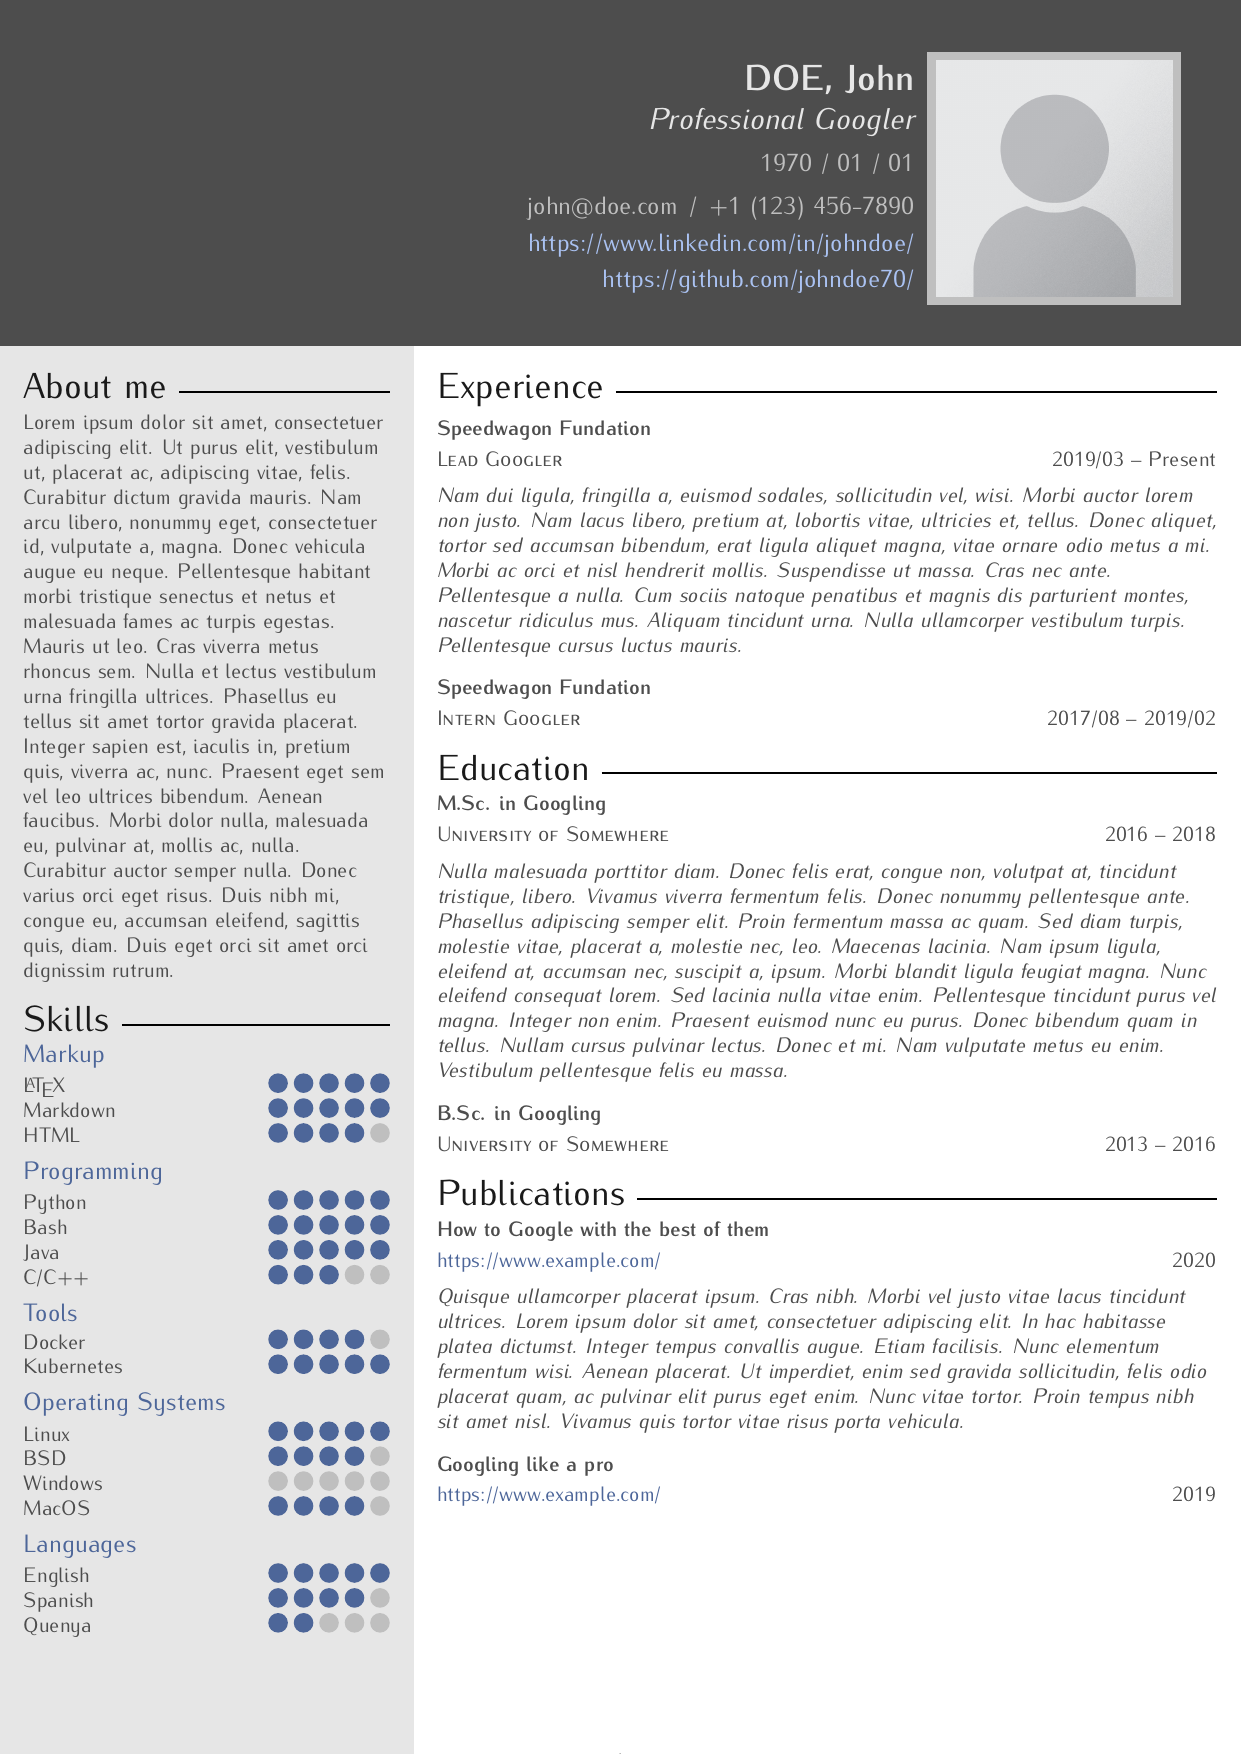
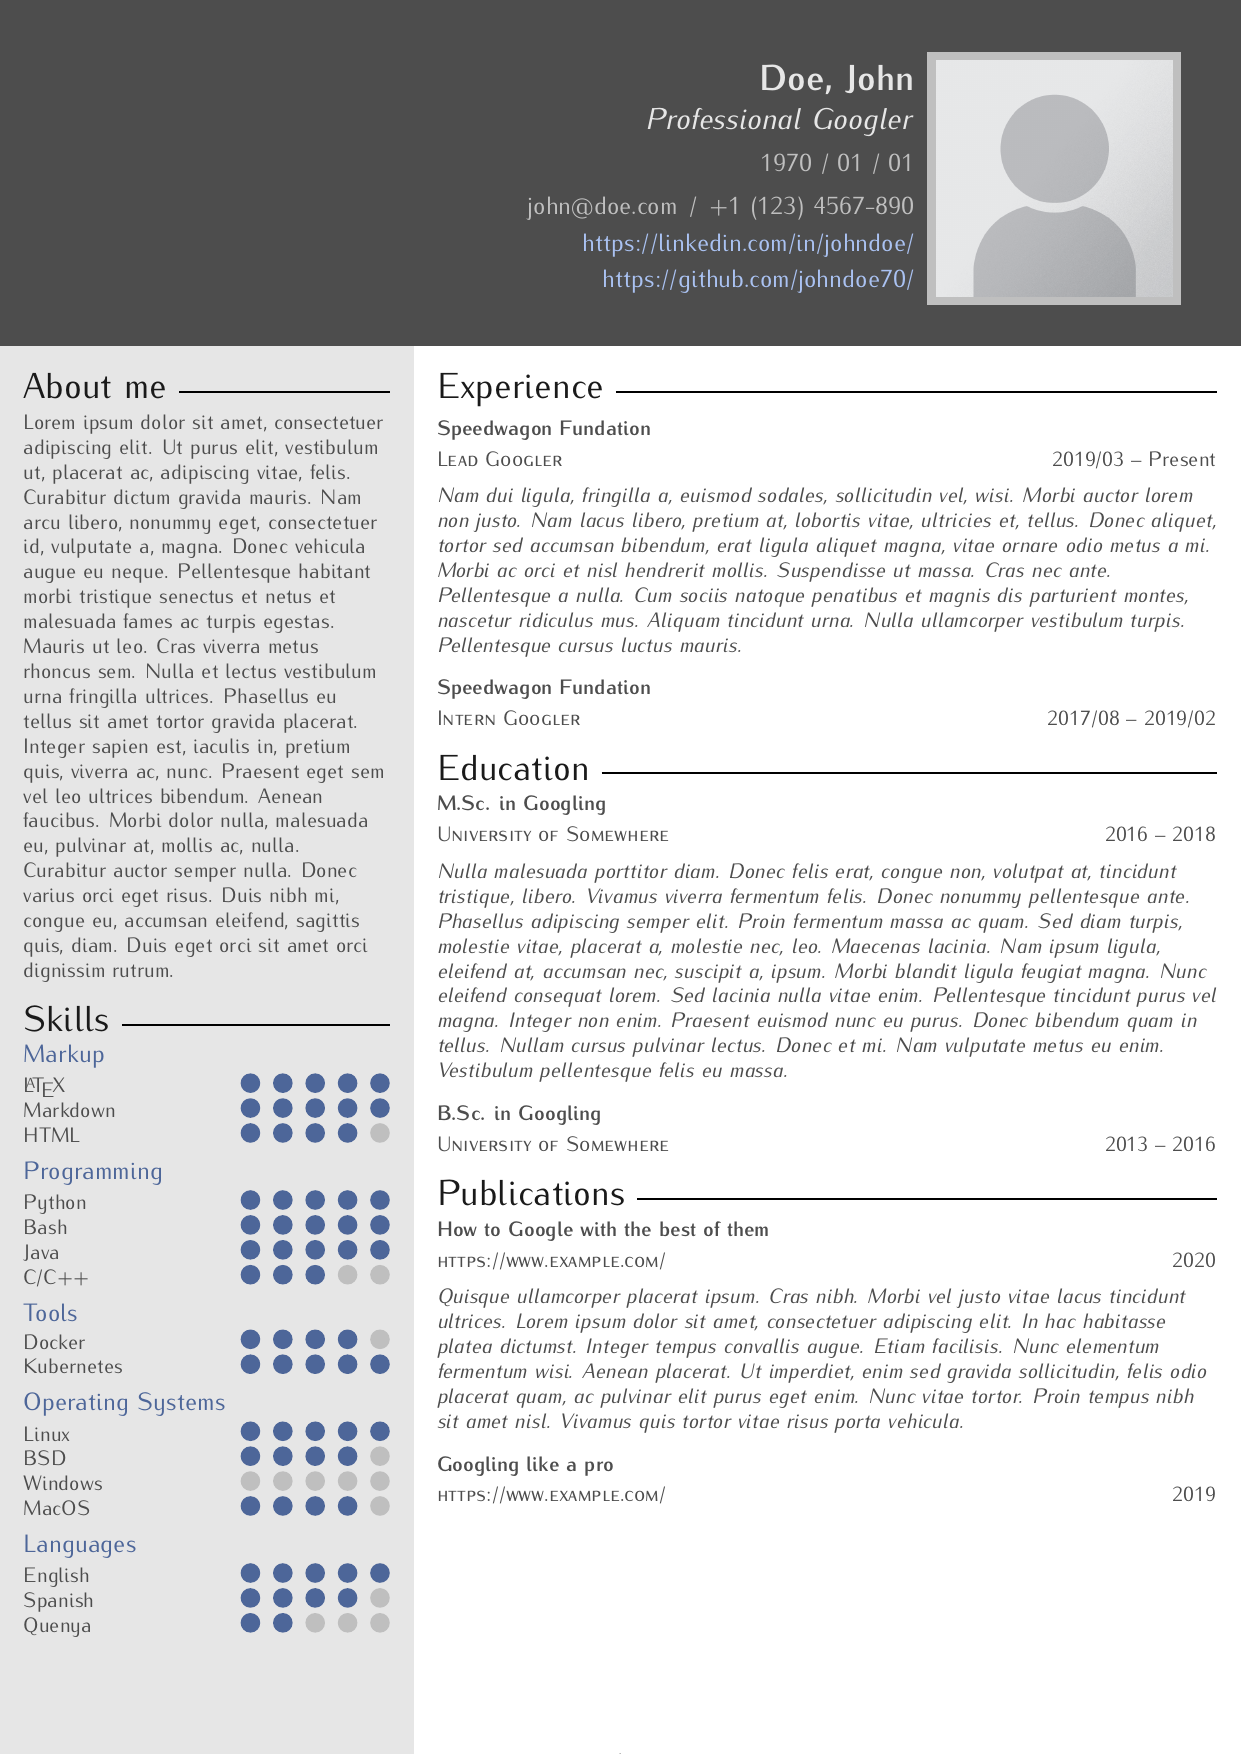
Update example

diff --git a/example.tex b/example.tex
@@ -5,7 +5,7 @@
 % Source:   https://github.com/kip93/resume/                                   %
 % License:  BSD 3-Clause                                                       %
 % Created:  2020-09-27                                                         %
-% Updated:  2020-12-15                                                         %
+% Updated:  2020-12-19                                                         %
 %%%%%%%%%%%%%%%%%%%%%%%%%%%%%%%%%%%%%%%%%%%%%%%%%%%%%%%%%%%%%%%%%%%%%%%%%%%%%%%%
 
 % This loads the `resume.cls` file which defines all the commands used beneath.
@@ -31,11 +31,15 @@
     % Your contact e-mail.
     \email{john@doe.com}
     % Your phone number.
-    \phone{+1 (123) 456-7890}
+    \phone{+1 (123) 4567-890}
     % Your linkedin profile (the last part in the url, right after https://www.linkedin.com/in/).
     \linkedin{johndoe}  % Optional.
     % Your GitHub username.
     \github{johndoe70}  % Optional.
+    % You can also GitLab username instead.
+    % \gitlab{johndoe70}  % Optional.
+    % Or even a BitBucket username.
+    % \bitbucket{johndoe70}  % Optional.
 
     % Left column
     % ------------------------------------------------------------------------ %
@@ -74,6 +78,8 @@
         \skill{BSD}{4}
         % You can even use negatives.
         \skill{Windows}{-1}
+        % But not decimal numbers.
+        % \skill{MacOS}{4.2}
         \skill{MacOS}{4}
     \end{skillset}
 
